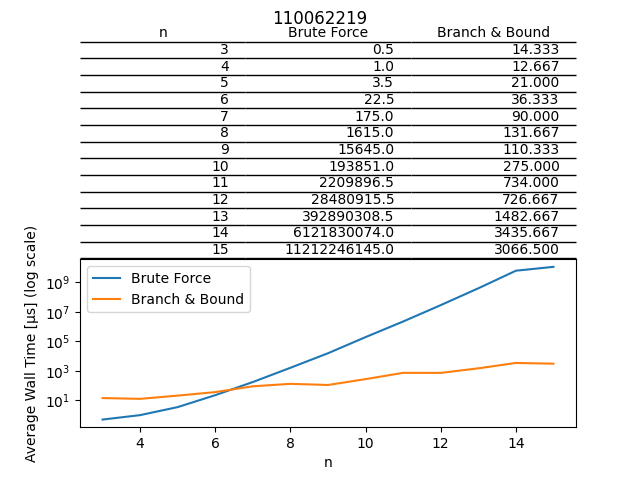
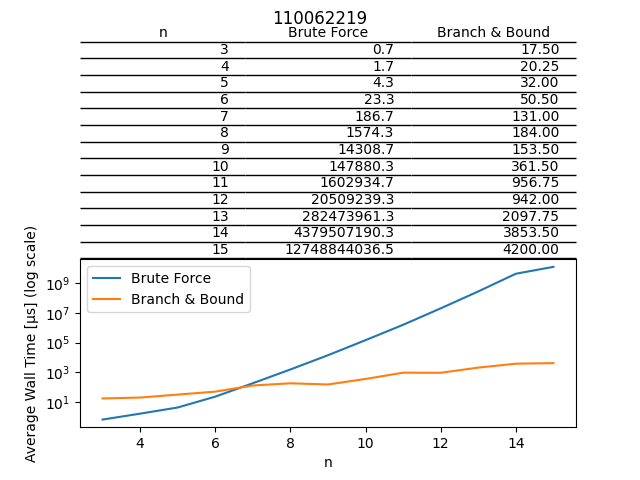
Update plot

diff --git a/Homework4/plot.py b/Homework4/plot.py
@@ -10,7 +10,7 @@ fig.suptitle("110062219")
 
 ax[0].axis('tight')
 ax[0].axis('off')
-ax[0].table(tuple((n, f"{bf:.1f}", f"{bb:.3f}") for n, bf, bb in zip(df['n'], df["bf"], df["bb"])), colLabels=("n", "Brute Force", "Branch & Bound"), edges="B", loc="center")
+ax[0].table(tuple((n, f"{bf:.1f}", f"{bb:.2f}") for n, bf, bb in zip(df['n'], df["bf"], df["bb"])), colLabels=("n", "Brute Force", "Branch & Bound"), edges="B", loc="center")
 
 ax[1].plot(df['n'], df["bf"], label="Brute Force")
 ax[1].plot(df['n'], df["bb"], label="Branch & Bound")
